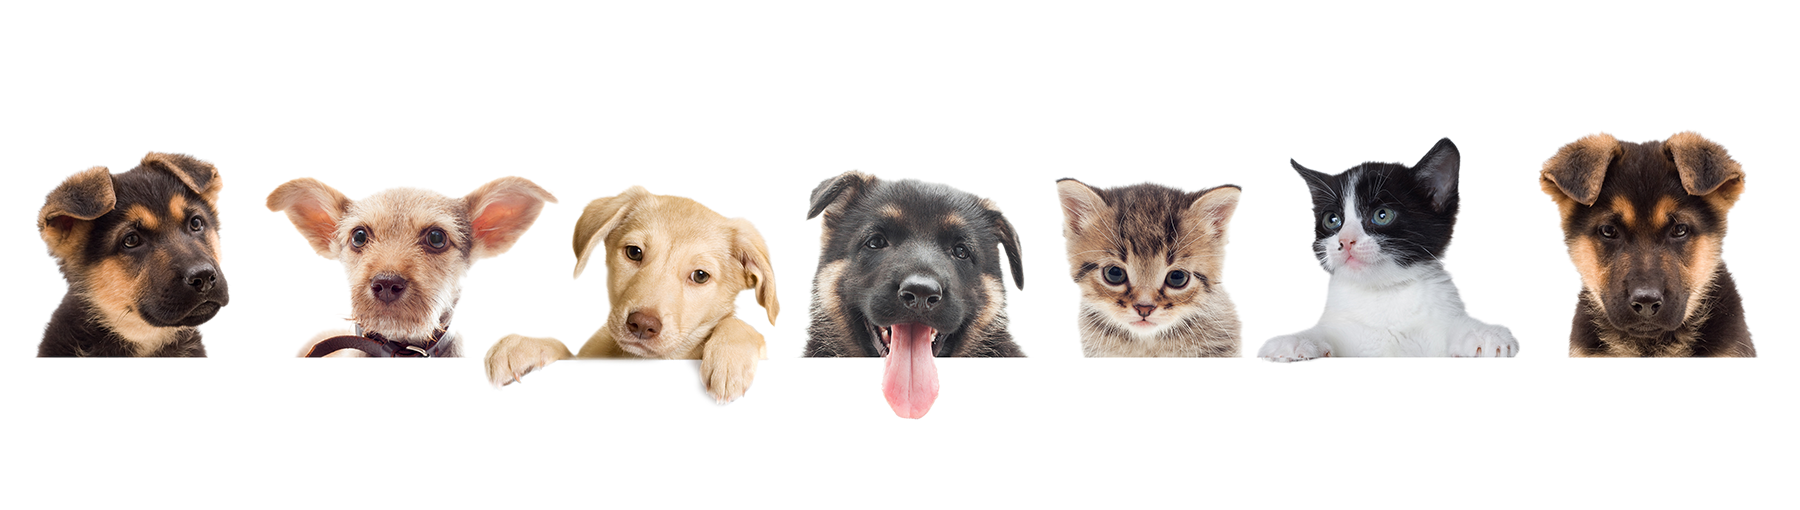
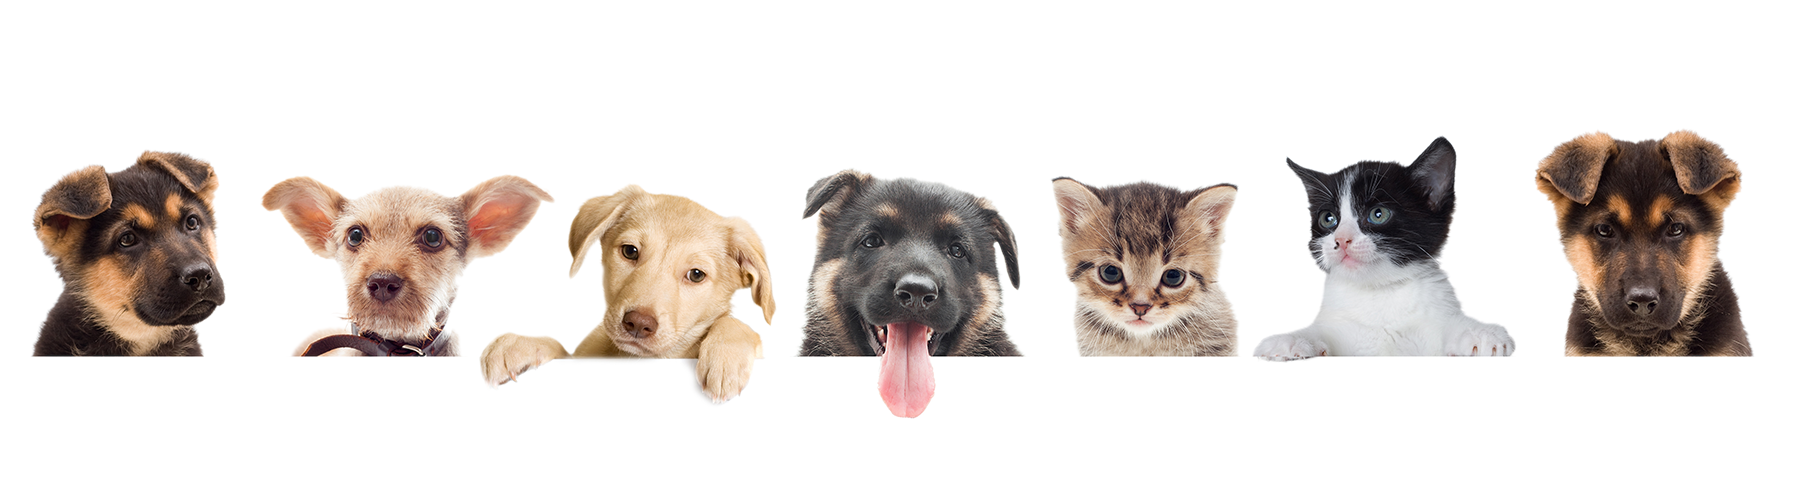
Search results UI

diff --git a/backend/data.js b/backend/data.js
@@ -28,7 +28,7 @@ const data = {
             },
             latitude: 40.757780,
             longitude: -73.919620,
-            phone: 7187282822,
+            phone: 17187282822,
             image: "https://s3-media0.fl.yelpcdn.com/bphoto/qG7JWhNjZojuf0ZD4Md4rg/l.jpg",
         },
         {
@@ -41,8 +41,8 @@ const data = {
             },
             latitude: 40.759850,
             longitude: -73.920197,
-            phone: 7182787811,
-            image: null,
+            phone: 17182787811,
+            image: "https://lh3.googleusercontent.com/proxy/WHw0zgNUp85oVNwRKDSmGHPLd2LgOBs8uBsDlfhJWhTZLogGke-OXC_tHtMa6uVbZW5FBVRfQbtuAvMO1-9sgKaIn1E4Q4s0ujHPpv_DIcSBvXDm5a-bhQFwnZleTCBMNicDQw",
         },
         {
             name: "Court Square Animal Hospital",
@@ -54,9 +54,88 @@ const data = {
             },
             latitude: 40.749721,
             longitude: -73.941572,
-            phone: 7185774701,
-            image: null,
-        }
+            phone: 17185774701,
+            image: "https://liccourtsquare.com/wp-content/uploads/2019/07/unnamed-32.jpg",
+        },
+        {
+            name: "Urban Vets Animal Hospital",
+            address: {
+                street: "163 Loisaida Ave",
+                city: "New York",
+                state: "NY",
+                zip: "10009",
+            },
+            
+            latitude:  40.726076658024894,
+            longitude: -73.97771520917628,
+            phone: 12126746200,
+            image: "https://live.staticflickr.com/586/23469561891_73e67c65d0_b.jpg"
+        },
+        {
+            name: "ASPCA Community Veterinary Center",
+            address: {
+                street: "501 E 161 St",
+                city: "Bronx",
+                state: "NY",
+                zip: "10451",
+            },
+            latitude: 40.82326974763307,
+            longitude: -73.90937884208836,
+            phone: 18446927722,
+            image: "https://lh5.googleusercontent.com/p/AF1QipOlCLrm4sQgWZxmKuZbSZVriSrt6iEa9Qv-CzhG=w408-h272-k-no",
+        },
+        {
+            name: "Bond Vet - Upper West Side",
+            address: {
+                street: "352 Amsterdam Ave",
+                city: "New York",
+                state: "NY",
+                zip: "10024",
+            },
+            latitude: 40.78175838083548, 
+            longitude: -73.9795732899591,
+            phone: 12127299661,
+            image: "https://lh5.googleusercontent.com/p/AF1QipPr_buHo9WxPKUZgaQ-pB0Yw-ibdKvVUD8p89Qg=w426-h240-k-no",
+        },
+        {
+            name: "Bond Vet - Chelsea",
+            address: {
+                street: "555 6th Ave",
+                city: "New York",
+                state: "NY",
+                zip: "10011",
+            },
+            latitude: 40.73861140851091,
+            longitude: -73.99609878581889,
+            phone: 12125184667,
+            image: "https://lh5.googleusercontent.com/p/AF1QipOLEA9DVHTEohBO0x5BVrBT_1KyEdaA5cbosnqi=w426-h240-k-no",
+        },
+        {
+            name: "Pure Paws Veterinary Care of Clinton Hill",
+            address: {
+                street: "944 Fulton St",
+                city: "Brooklyn",
+                state: "NY",
+                zip: "11238",
+            },
+            latitude: 40.682533847446535,
+            longitude: -73.96301852804066,
+            phone: 17187835500,
+            image: "https://lh5.googleusercontent.com/p/AF1QipPr_buHo9WxPKUZgaQ-pB0Yw-ibdKvVUD8p89Qg=w426-h240-k-no",
+        },
+        {
+            name: "Manhattan Beach Animal Clinic",
+            address: {
+                street: "126 Brighton 11th St",
+                city: "Brooklyn",
+                state: "NY",
+                zip: "11235",
+            },
+            latitude: 40.57992616542961,
+            longitude: -73.95795053640249,
+            phone: 17186160964,
+            image: "https://lh5.googleusercontent.com/p/AF1QipMGg7rNz9pSST4Ry0OCj1d7lLGD9x0BUl0WrcYE=w408-h544-k-no",
+        },
     ]
 }
 

diff --git a/backend/frontend/src/screens/SearchResults.js b/backend/frontend/src/screens/SearchResults.js
@@ -4,7 +4,8 @@ import axios from 'axios';
 import { useLocation } from 'react-router-dom';
 import Result from '../components/Result';
 import Navbar from '../components/Navbar';
-import Map from '../components/Map'
+import Map from '../components/Map';
+import './SearchResults.css'
 
 
 const SearchResults = (props) => {
@@ -12,7 +13,7 @@ const SearchResults = (props) => {
     // Get query string from URL
 
     const { search } = useLocation(); // Search property whose value is the query string: 
-    console.log('Query string:', search);
+    // console.log('Query string:', search);
 
     // // To get query string values
 
@@ -27,7 +28,6 @@ const SearchResults = (props) => {
 
     useEffect(() => { //Only want to fetch data when component mounts
         const fetchData = async () => {
-            //const { data } = await axios.get('/api/clinics'); 
             const { data } = await axios.get('/api/clinics/search-results/' + search); //Filtered array in backend transferred to data in frontend
             setClinics(data);
         };
@@ -39,12 +39,21 @@ const SearchResults = (props) => {
     return (
         <div>
             <Navbar />
-            <h4>Search Results</h4>
-            {/* {searchResultElements} */}
-            {clinics.map(clinic => (
-                <Result key={clinic._id} clinic={clinic} />
-            ))}     
-            <Map clinics={clinics}/>
+            <div className="SearchResultsContent">
+                <div className="SearchResults">
+
+                    <h4>Search Results</h4>
+                    
+                    {clinics.map(clinic => (
+                        <Result key={clinic._id} clinic={clinic} />
+                    ))}
+                </div>  
+                <div className="Map">
+                     <Map clinics={clinics}/> 
+                </div>
+                   
+            </div>
+        
         </div>
     );
 }

diff --git a/backend/routers/clinicRouter.js b/backend/routers/clinicRouter.js
@@ -33,9 +33,13 @@ clinicRouter.get(
         //const clinics = await Clinic.find({$or:[{name: new RegExp(querySearch, 'i')}, {"address.city": queryLocation}, {"address.state": queryLocation}, {"address.zip": queryLocation}]});
         //const clinics = await Clinic.find(name: new RegExp(querySearch, 'i'), {$or:[{"address.city": queryLocation}, {"address.state": queryLocation}, {"address.zip": queryLocation}]});
 
+        // const clinics = querySearch ? 
+        //     await Clinic.find({$or:[{name: new RegExp(querySearch, 'i')}, {"address.city": queryLocation}, {"address.state": queryLocation}, {"address.zip": queryLocation}]}) :
+        //     await Clinic.find({$or:[{"address.city": queryLocation}, {"address.state": queryLocation}, {"address.zip": queryLocation}]});
+
         const clinics = querySearch ? 
-            await Clinic.find({$or:[{name: new RegExp(querySearch, 'i')}, {"address.city": queryLocation}, {"address.state": queryLocation}, {"address.zip": queryLocation}]}) :
-            await Clinic.find({$or:[{"address.city": queryLocation}, {"address.state": queryLocation}, {"address.zip": queryLocation}]});
+            await Clinic.find({$or:[{name: new RegExp(querySearch, 'i')}, {"address.city": new RegExp(queryLocation, 'i')}, {"address.state": new RegExp(queryLocation, 'i')}, {"address.zip": new RegExp(queryLocation, 'i')}]}) :
+            await Clinic.find({$or:[{"address.city": new RegExp(queryLocation, 'i')}, {"address.state": new RegExp(queryLocation, 'i')}, {"address.zip": new RegExp(queryLocation, 'i')}]});
 
         if (clinics) {
             res.send(clinics);

diff --git a/backend/frontend/src/components/Result.js b/backend/frontend/src/components/Result.js
@@ -1,11 +1,16 @@
+import './Result.css';
+
 const Result = ({clinic}) => {
     return (
        <div className="Clinic">
-           <div>
-               
+           <div className="ClinicImage">
+                <img src={clinic.image} alt={clinic.name}/>
            </div>
-           <h4>{clinic.name}</h4>
-           <p>{clinic.address.street    }</p>
+           <div className="ClinicDescription">
+                <h3>{clinic.name}</h3>
+                <p>{clinic.address.street} {clinic.address.city}, {clinic.address.state} {clinic.address.zip}</p>
+                <p>+{clinic.phone}</p>
+            </div> 
        </div>
     );
 }

diff --git a/backend/frontend/src/components/Result.css b/backend/frontend/src/components/Result.css
@@ -1,0 +1,30 @@
+.Clinic {
+    display: flex;
+    flex-direction: row;
+    padding: 20px;
+    margin-top: 20px;
+    /* border: 1px solid #ECECEC; */
+    border-radius: 15px;
+    box-shadow: 0 3px 10px lightgray;
+}
+
+.ClinicImage {
+    height: 200px;
+    width: 200px;
+}
+.ClinicImage img {
+    height: 200px;
+    width: 200px;
+}
+
+.ClinicDescription {
+    padding-left: 20px;
+}
+
+.ClinicDescription h3 {
+    margin: 0px;
+}
+
+.ClinicDescription p {
+    /* margin: 5px 0 5px 0; */
+}

diff --git a/backend/frontend/src/components/Map.js b/backend/frontend/src/components/Map.js
@@ -7,7 +7,7 @@ const Map = ({clinics}) => {
     // console.log(REACT_APP_API_KEY); 
 
   return (
-        <div style={{ height: '100vh', width: '50%' }}>
+        <div style={{ height: '100vh' }}>
          
             <GoogleMapReact
                 bootstrapURLKeys={{ key: REACT_APP_API_KEY }}

diff --git a/backend/frontend/src/screens/Home.css b/backend/frontend/src/screens/Home.css
@@ -1,7 +1,7 @@
 header {
     height: 600px;
     background-color: #E1F0FE;
-    background-image: url('../images/pet-banner.png');
+    background-image: url('../images/pets-banner.png');
     background-size: contain;
     background-repeat: no-repeat;   
     background-position: bottom;

diff --git a/backend/frontend/src/screens/SearchResults.css b/backend/frontend/src/screens/SearchResults.css
@@ -1,0 +1,19 @@
+.SearchResultsContent {
+    display: flex;
+    flex-direction: row;
+    /* background-size: contain; */
+    /* width: 100%; */
+}
+
+.SearchResults {
+    padding: 40px;
+    width: 60%;
+}
+
+.SearchResults h4 {
+    margin: 0;
+}
+
+.Map {
+    width: 40%;
+}
